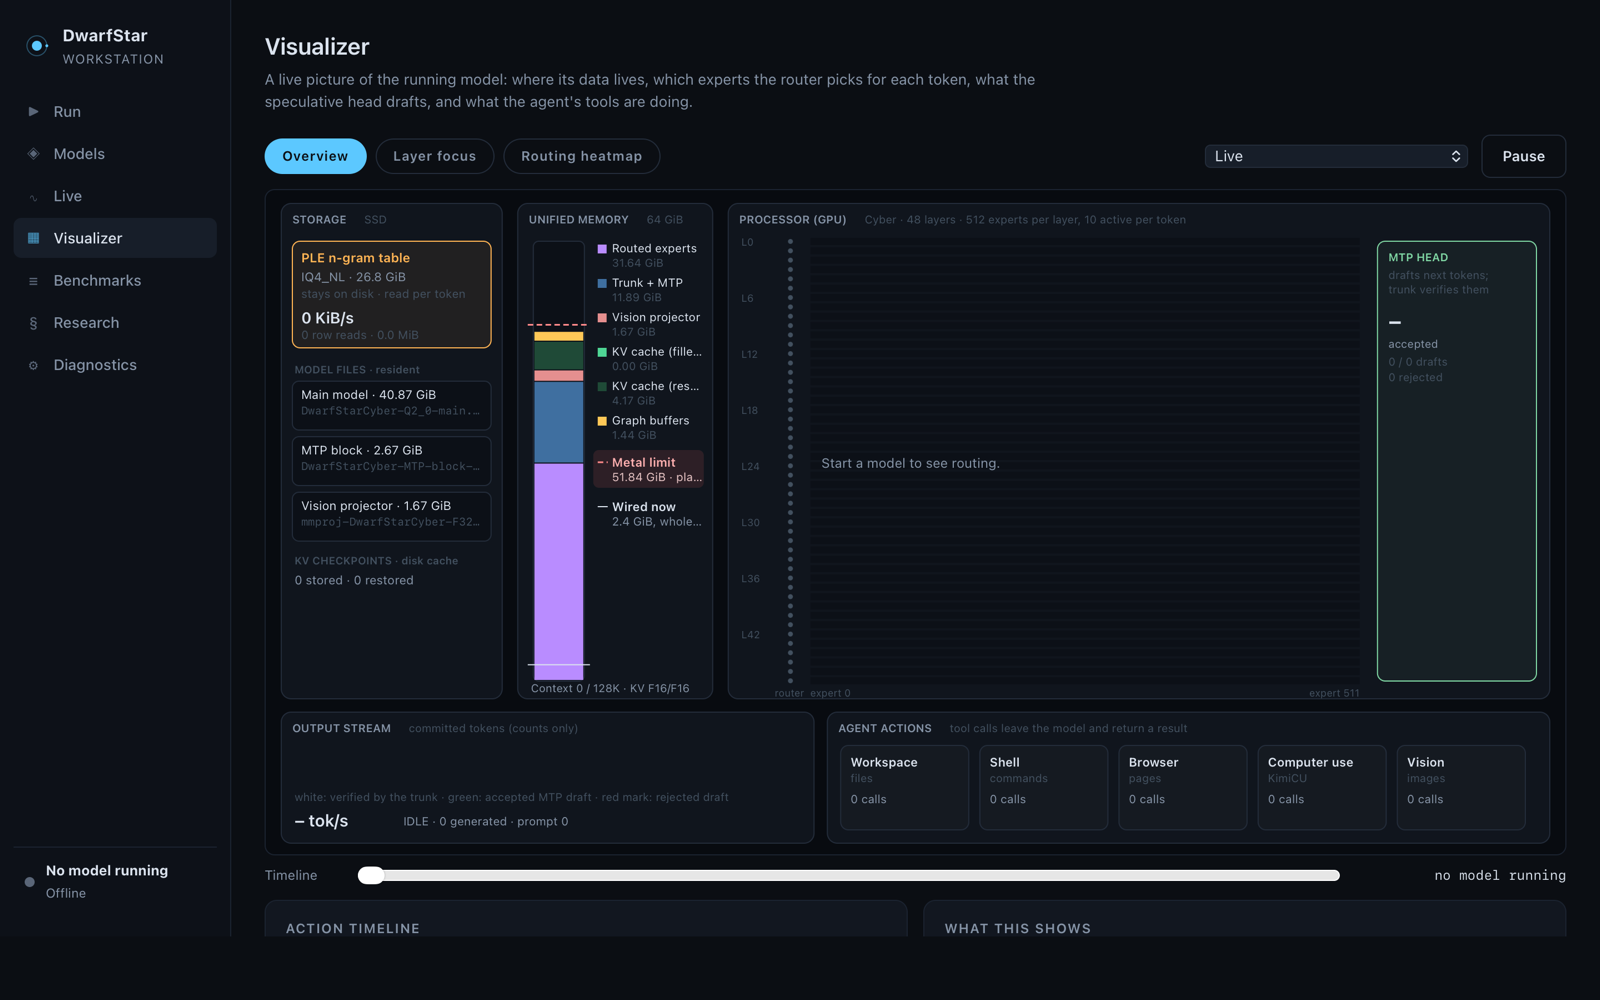
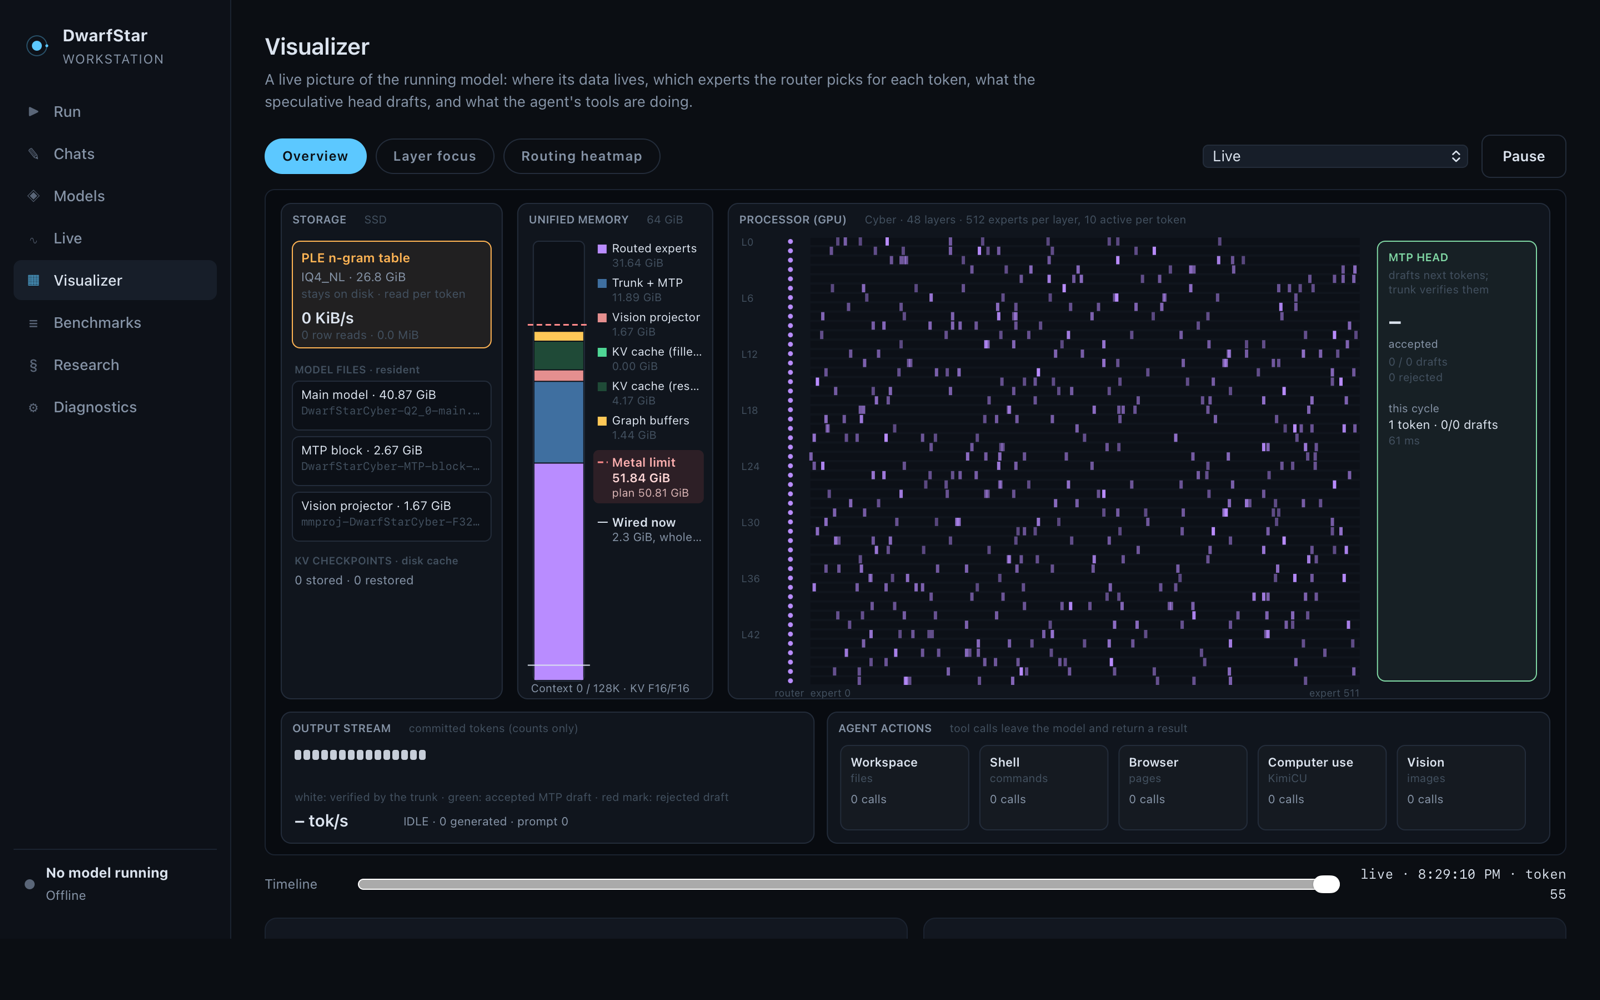
fix(visualizer): contain runtime labels and output tokens at every window size
The output stream drew a fixed 46 tokens and overflowed narrow panels; it now draws only what fits. The Metal limit legend shows its value on its own line with the plan below it, and the output legend and status lines are fitted to their panel. Canvas fonts fall back to the system face in Chromium instead of serif. Screenshot recaptured.

diff --git a/app/workstation/web/visualizer.js b/app/workstation/web/visualizer.js
@@ -144,9 +144,9 @@
     const g = V.g;
     g.fillStyle = COLORS.panel; g.strokeStyle = stroke || COLORS.line; g.lineWidth = 1;
     g.beginPath(); g.roundRect(x, y, w, h, 9); g.fill(); g.stroke();
-    g.fillStyle = COLORS.muted; g.font = "600 10px -apple-system"; g.textBaseline = "top"; g.textAlign = "left";
+    g.fillStyle = COLORS.muted; g.font = "600 10px -apple-system, BlinkMacSystemFont, \"Helvetica Neue\", sans-serif"; g.textBaseline = "top"; g.textAlign = "left";
     g.fillText(title.toUpperCase(), x + 10, y + 8);
-    if (sub) { const sx = x + 10 + g.measureText(title.toUpperCase()).width + 16; g.fillStyle = COLORS.faint; g.font = "10px -apple-system"; g.fillText(fit(sub, x + w - 10 - sx), sx, y + 8); }
+    if (sub) { const sx = x + 10 + g.measureText(title.toUpperCase()).width + 16; g.fillStyle = COLORS.faint; g.font = "10px -apple-system, BlinkMacSystemFont, \"Helvetica Neue\", sans-serif"; g.fillText(fit(sub, x + w - 10 - sx), sx, y + 8); }
   }
   /* Text never leaves its region: anything wider than maxWidth is shortened with an ellipsis, and the full
    * value stays available as the canvas tooltip for that region (see hint()). */
@@ -158,7 +158,7 @@
     return text.slice(0, lo) + "…";
   }
   function label(text, x, y, color, font, align, maxWidth) {
-    const g = V.g; g.fillStyle = color || COLORS.text; g.font = font || "11px -apple-system"; g.textAlign = align || "left"; g.textBaseline = "top";
+    const g = V.g; g.fillStyle = color || COLORS.text; g.font = font || "11px -apple-system, BlinkMacSystemFont, \"Helvetica Neue\", sans-serif"; g.textAlign = align || "left"; g.textBaseline = "top";
     g.fillText(fit(text, maxWidth), x, y);
   }
   function hint(x, y, w, h, text) { V.hits.push({ x, y, w, h, text }); }
@@ -198,25 +198,25 @@
     g.fillStyle = reading ? "rgba(255,180,84,.16)" : "rgba(255,180,84,.07)"; g.strokeStyle = COLORS.ple; g.lineWidth = reading ? 1.6 : 1;
     g.beginPath(); g.roundRect(x + 10, pleY, w - 20, pleH, 7); g.fill(); g.stroke();
     const inner = w - 36;  // text width inside a card: 18 px inset on both sides
-    label("PLE n-gram table", x + 18, pleY + 8, COLORS.ple, "600 11.5px -apple-system", "left", inner);
+    label("PLE n-gram table", x + 18, pleY + 8, COLORS.ple, "600 11.5px -apple-system, BlinkMacSystemFont, \"Helvetica Neue\", sans-serif", "left", inner);
     label(m.quantization.ple.split(",")[0] + " · " + (assets.ple.bytes / 2 ** 30).toFixed(1) + " GiB", x + 18, pleY + 25, COLORS.muted, undefined, "left", inner);
-    label("stays on disk · read per token", x + 18, pleY + 41, COLORS.faint, "10.5px -apple-system", "left", inner);
+    label("stays on disk · read per token", x + 18, pleY + 41, COLORS.faint, "10.5px -apple-system, BlinkMacSystemFont, \"Helvetica Neue\", sans-serif", "left", inner);
     hint(x + 10, pleY, w - 20, pleH, `PLE n-gram table: ${assets.ple.file} (${(assets.ple.bytes / 2 ** 30).toFixed(2)} GiB, ${m.quantization.ple})`);
     const ple = live.ple || {};
-    label(((ple.bytes_per_s || 0) / 1024).toFixed(0) + " KiB/s", x + 18, pleY + 60, COLORS.text, "600 14px -apple-system", "left", inner);
-    label((ple.reads || 0).toLocaleString() + " row reads · " + ((ple.bytes || 0) / 2 ** 20).toFixed(1) + " MiB", x + 18, pleY + 78, COLORS.faint, "10.5px -apple-system", "left", inner);
+    label(((ple.bytes_per_s || 0) / 1024).toFixed(0) + " KiB/s", x + 18, pleY + 60, COLORS.text, "600 14px -apple-system, BlinkMacSystemFont, \"Helvetica Neue\", sans-serif", "left", inner);
+    label((ple.reads || 0).toLocaleString() + " row reads · " + ((ple.bytes || 0) / 2 ** 20).toFixed(1) + " MiB", x + 18, pleY + 78, COLORS.faint, "10.5px -apple-system, BlinkMacSystemFont, \"Helvetica Neue\", sans-serif", "left", inner);
     let fy = pleY + pleH + 14;
-    label("MODEL FILES · resident", x + 12, fy, COLORS.faint, "600 9.5px -apple-system", "left", w - 24); fy += 16;
+    label("MODEL FILES · resident", x + 12, fy, COLORS.faint, "600 9.5px -apple-system, BlinkMacSystemFont, \"Helvetica Neue\", sans-serif", "left", w - 24); fy += 16;
     [["main", "Main model"], ["mtp", "MTP block"], ["vision", "Vision projector"]].forEach(([k, name]) => {
       if (fy + 44 > y + h - 40) return;  // never draw below the panel
       g.fillStyle = "#0c1017"; g.strokeStyle = COLORS.line; g.lineWidth = 1; g.beginPath(); g.roundRect(x + 10, fy, w - 20, 44, 6); g.fill(); g.stroke();
-      label(name + " · " + (assets[k].bytes / 2 ** 30).toFixed(2) + " GiB", x + 18, fy + 5, COLORS.text, "11px -apple-system", "left", inner);
+      label(name + " · " + (assets[k].bytes / 2 ** 30).toFixed(2) + " GiB", x + 18, fy + 5, COLORS.text, "11px -apple-system, BlinkMacSystemFont, \"Helvetica Neue\", sans-serif", "left", inner);
       label(assets[k].file, x + 18, fy + 20, COLORS.faint, "10px ui-monospace, Menlo, monospace", "left", inner);
       hint(x + 10, fy, w - 20, 44, `${name}: ${assets[k].file} · ${(assets[k].bytes / 2 ** 30).toFixed(2)} GiB · SHA-256 ${assets[k].sha256}`);
       fy += 50;
     });
     const kv = live.kv || {};
-    label("KV CHECKPOINTS · disk cache", x + 12, fy + 6, COLORS.faint, "600 9.5px -apple-system", "left", w - 24);
+    label("KV CHECKPOINTS · disk cache", x + 12, fy + 6, COLORS.faint, "600 9.5px -apple-system, BlinkMacSystemFont, \"Helvetica Neue\", sans-serif", "left", w - 24);
     label((kv.stores || 0) + " stored · " + (kv.hits || 0) + " restored", x + 12, fy + 22, COLORS.muted, undefined, "left", w - 24);
   }
   function drawMemory(x, y, w, h, m, live) {
@@ -233,8 +233,8 @@
       g.fillStyle = color; g.fillRect(bx + 1, cy, bw - 2, Math.max(0, ph - 1));
       g.fillStyle = color; g.fillRect(bx + bw + 12, ly + 3, 8, 8);
       const legendW = x + w - (bx + bw + 25) - 8;
-      label(name, bx + bw + 25, ly, COLORS.text, "10.5px -apple-system", "left", legendW);
-      label(gibs.toFixed(2) + " GiB", bx + bw + 25, ly + 13, COLORS.faint, "10px -apple-system", "left", legendW);
+      label(name, bx + bw + 25, ly, COLORS.text, "10.5px -apple-system, BlinkMacSystemFont, \"Helvetica Neue\", sans-serif", "left", legendW);
+      label(gibs.toFixed(2) + " GiB", bx + bw + 25, ly + 13, COLORS.faint, "10px -apple-system, BlinkMacSystemFont, \"Helvetica Neue\", sans-serif", "left", legendW);
       ly += 31;
     });
     // Reference lines are keyed in the legend, never labelled on top of it.
@@ -242,21 +242,22 @@
     g.strokeStyle = "#ff8a8a"; g.lineWidth = 1.5; g.setLineDash([5, 3]); g.beginPath(); g.moveTo(bx - 5, limitY); g.lineTo(bx + bw + 5, limitY); g.stroke(); g.setLineDash([]); g.lineWidth = 1;
     const lx = bx + bw + 12, legendW = x + w - lx - 8;
     ly += 6;
-    g.fillStyle = "rgba(255,107,107,.12)"; g.beginPath(); g.roundRect(lx - 4, ly - 4, legendW + 4, 34, 5); g.fill();
+    g.fillStyle = "rgba(255,107,107,.12)"; g.beginPath(); g.roundRect(lx - 4, ly - 4, legendW + 4, 48, 5); g.fill();
     g.strokeStyle = "#ff8a8a"; g.lineWidth = 1.5; g.setLineDash([5, 3]); g.beginPath(); g.moveTo(lx, ly + 7); g.lineTo(lx + 9, ly + 7); g.stroke(); g.setLineDash([]); g.lineWidth = 1;
-    label("Metal limit", lx + 13, ly, "#ffb0b0", "600 11px -apple-system", "left", legendW - 13);
-    label(limit.toFixed(2) + " GiB · plan " + plan.planned_gib.toFixed(2), lx + 13, ly + 14, "#e7c4c4", "10.5px -apple-system", "left", legendW - 13);
-    hint(lx - 4, ly - 4, legendW + 4, 34, `Metal recommended working set ${limit.toFixed(2)} GiB (${plan.metal_working_set_source}); this model plans ${plan.planned_gib.toFixed(2)} GiB, ${plan.metal_headroom_gib.toFixed(2)} GiB headroom`);
+    label("Metal limit", lx + 13, ly, "#ffb0b0", "600 11px -apple-system, BlinkMacSystemFont, \"Helvetica Neue\", sans-serif", "left", legendW - 13);
+    label(limit.toFixed(2) + " GiB", lx + 13, ly + 14, "#ffd6d6", "600 11px -apple-system, BlinkMacSystemFont, \"Helvetica Neue\", sans-serif", "left", legendW - 13);
+    label("plan " + plan.planned_gib.toFixed(2) + " GiB", lx + 13, ly + 28, "#d8b3b3", "10px -apple-system, BlinkMacSystemFont, \"Helvetica Neue\", sans-serif", "left", legendW - 13);
+    hint(lx - 4, ly - 4, legendW + 4, 48, `Metal recommended working set ${limit.toFixed(2)} GiB (${plan.metal_working_set_source}); this model plans ${plan.planned_gib.toFixed(2)} GiB, ${plan.metal_headroom_gib.toFixed(2)} GiB headroom`);
     const wired = S.system && S.system.memory && S.system.memory.wired_bytes;
     if (wired) {
       const wy = by + bh - wired / 2 ** 30 / total * bh;
       g.strokeStyle = COLORS.text; g.beginPath(); g.moveTo(bx - 5, wy); g.lineTo(bx + bw + 5, wy); g.stroke();
-      ly += 40;
+      ly += 54;
       g.strokeStyle = COLORS.text; g.beginPath(); g.moveTo(lx, ly + 7); g.lineTo(lx + 9, ly + 7); g.stroke();
-      label("Wired now", lx + 13, ly, COLORS.text, "600 11px -apple-system", "left", legendW - 13);
-      label((wired / 2 ** 30).toFixed(1) + " GiB, whole machine", lx + 13, ly + 14, COLORS.muted, "10.5px -apple-system", "left", legendW - 13);
+      label("Wired now", lx + 13, ly, COLORS.text, "600 11px -apple-system, BlinkMacSystemFont, \"Helvetica Neue\", sans-serif", "left", legendW - 13);
+      label((wired / 2 ** 30).toFixed(1) + " GiB, whole machine", lx + 13, ly + 14, COLORS.muted, "10.5px -apple-system, BlinkMacSystemFont, \"Helvetica Neue\", sans-serif", "left", legendW - 13);
     }
-    label("Context " + used.toLocaleString() + " / " + m.context_label + " · KV " + m.cache.k_cache_dtype + "/" + m.cache.v_cache_dtype, x + 12, y + h - 16, COLORS.muted, "10px -apple-system", "left", w - 24);
+    label("Context " + used.toLocaleString() + " / " + m.context_label + " · KV " + m.cache.k_cache_dtype + "/" + m.cache.v_cache_dtype, x + 12, y + h - 16, COLORS.muted, "10px -apple-system, BlinkMacSystemFont, \"Helvetica Neue\", sans-serif", "left", w - 24);
   }
   function drawProcessor(x, y, w, h, m, tick, active, now) {
     const g = V.g, layers = 48;
@@ -270,7 +271,7 @@
     const progress = Math.min(1, (now - V.lastTickAt) / 220);
     for (let l = 0; l < layers; l++) {
       const ry = py + l * rowH;
-      if (l % 6 === 0) label("L" + l, px, ry - 1, COLORS.faint, "9px -apple-system");
+      if (l % 6 === 0) label("L" + l, px, ry - 1, COLORS.faint, "9px -apple-system, BlinkMacSystemFont, \"Helvetica Neue\", sans-serif");
       g.fillStyle = "#0c1017"; g.fillRect(stripX, ry + 1, stripW, Math.max(1.5, rowH - 2));
       const lit = !V.paused ? l / layers <= progress : true;
       g.fillStyle = lit && rows ? tone() : COLORS.faint; g.beginPath(); g.arc(px + 44, ry + rowH / 2, 2.2, 0, 6.3); g.fill();
@@ -284,25 +285,25 @@
         g.globalAlpha = 1;
       }
     }
-    label("router", px + 30, py + ph + 1, COLORS.faint, "9px -apple-system");
-    label("expert 0", stripX, py + ph + 1, COLORS.faint, "9px -apple-system");
-    label("expert 511", stripX + stripW, py + ph + 1, COLORS.faint, "9px -apple-system", "right");
-    if (!rows) label(D.runningModel() ? "Waiting for the next token. Router selections appear while the model generates." : "Start a model to see routing.", stripX + 10, py + ph / 2 - 6, COLORS.muted, "12px -apple-system");
+    label("router", px + 30, py + ph + 1, COLORS.faint, "9px -apple-system, BlinkMacSystemFont, \"Helvetica Neue\", sans-serif");
+    label("expert 0", stripX, py + ph + 1, COLORS.faint, "9px -apple-system, BlinkMacSystemFont, \"Helvetica Neue\", sans-serif");
+    label("expert 511", stripX + stripW, py + ph + 1, COLORS.faint, "9px -apple-system, BlinkMacSystemFont, \"Helvetica Neue\", sans-serif", "right");
+    if (!rows) label(D.runningModel() ? "Waiting for the next token. Router selections appear while the model generates." : "Start a model to see routing.", stripX + 10, py + ph / 2 - 6, COLORS.muted, "12px -apple-system, BlinkMacSystemFont, \"Helvetica Neue\", sans-serif");
     // token pill travelling down the stack
     V.pills.forEach((p) => { const t = (now - p.t0) / 260; if (t > 1) return; g.fillStyle = COLORS.text; g.beginPath(); g.roundRect(px + 14, py + t * (ph - 10), 20, 8, 4); g.fill(); });
     // MTP lane
     const mx = px + pw - mtpW, mw = mtpW;
     g.strokeStyle = COLORS.mtp; g.fillStyle = "rgba(127,214,163,.06)"; g.lineWidth = 1; g.beginPath(); g.roundRect(mx, py + 4, mw, ph - 8, 7); g.fill(); g.stroke();
-    label("MTP HEAD", mx + 10, py + 12, COLORS.mtp, "600 10px -apple-system", "left", mw - 20);
-    label("drafts next tokens;", mx + 10, py + 28, COLORS.faint, "10px -apple-system", "left", mw - 20);
-    label("trunk verifies them", mx + 10, py + 41, COLORS.faint, "10px -apple-system", "left", mw - 20);
+    label("MTP HEAD", mx + 10, py + 12, COLORS.mtp, "600 10px -apple-system, BlinkMacSystemFont, \"Helvetica Neue\", sans-serif", "left", mw - 20);
+    label("drafts next tokens;", mx + 10, py + 28, COLORS.faint, "10px -apple-system, BlinkMacSystemFont, \"Helvetica Neue\", sans-serif", "left", mw - 20);
+    label("trunk verifies them", mx + 10, py + 41, COLORS.faint, "10px -apple-system, BlinkMacSystemFont, \"Helvetica Neue\", sans-serif", "left", mw - 20);
     const mtp = (S.live && S.live.mtp) || {};
-    label(mtp.acceptance_pct != null ? mtp.acceptance_pct.toFixed(1) + " %" : "–", mx + 10, py + 64, COLORS.text, "600 20px -apple-system");
-    label("accepted", mx + 10, py + 90, COLORS.muted, "10px -apple-system");
-    label((mtp.accepted || 0) + " / " + (mtp.proposed || 0) + " drafts", mx + 10, py + 106, COLORS.faint, "10px -apple-system");
-    label((mtp.rejected || 0) + " rejected", mx + 10, py + 120, COLORS.faint, "10px -apple-system");
+    label(mtp.acceptance_pct != null ? mtp.acceptance_pct.toFixed(1) + " %" : "–", mx + 10, py + 64, COLORS.text, "600 20px -apple-system, BlinkMacSystemFont, \"Helvetica Neue\", sans-serif");
+    label("accepted", mx + 10, py + 90, COLORS.muted, "10px -apple-system, BlinkMacSystemFont, \"Helvetica Neue\", sans-serif");
+    label((mtp.accepted || 0) + " / " + (mtp.proposed || 0) + " drafts", mx + 10, py + 106, COLORS.faint, "10px -apple-system, BlinkMacSystemFont, \"Helvetica Neue\", sans-serif");
+    label((mtp.rejected || 0) + " rejected", mx + 10, py + 120, COLORS.faint, "10px -apple-system, BlinkMacSystemFont, \"Helvetica Neue\", sans-serif");
     const cardBottom = py + ph - 4, inset = 10, mtw = mw - 2 * inset;
-    if (tick && cardBottom - (py + 177) > 24) { label("this cycle", mx + inset, py + 148, COLORS.muted, "10px -apple-system", "left", mtw); label(tick.n + " token" + (tick.n === 1 ? "" : "s") + " · " + tick.da + "/" + tick.dp + " drafts", mx + inset, py + 162, COLORS.text, "11px -apple-system", "left", mtw); label(tick.ms.toFixed(0) + " ms", mx + inset, py + 177, COLORS.faint, "10px -apple-system", "left", mtw); }
+    if (tick && cardBottom - (py + 177) > 24) { label("this cycle", mx + inset, py + 148, COLORS.muted, "10px -apple-system, BlinkMacSystemFont, \"Helvetica Neue\", sans-serif", "left", mtw); label(tick.n + " token" + (tick.n === 1 ? "" : "s") + " · " + tick.da + "/" + tick.dp + " drafts", mx + inset, py + 162, COLORS.text, "11px -apple-system, BlinkMacSystemFont, \"Helvetica Neue\", sans-serif", "left", mtw); label(tick.ms.toFixed(0) + " ms", mx + inset, py + 177, COLORS.faint, "10px -apple-system, BlinkMacSystemFont, \"Helvetica Neue\", sans-serif", "left", mtw); }
     // Draft pills move only inside the card: every pill keeps an inset from all four edges.
     const pillW = 18, pillH = 7, laneTop = py + 200, laneBottom = cardBottom - inset - pillH;
     if (laneBottom > laneTop) {
@@ -319,7 +320,7 @@
   function drawLayer(x, y, w, h, tick) {
     const g = V.g, row = tick && tick.r && tick.r[V.focusLayer];
     const cell = Math.floor(Math.min((w - 250) / GRID_COLS, (h - 30) / GRID_ROWS)), gx = x + 4, gy = y + 22;
-    label("Layer " + V.focusLayer + " · router output for the current token", x + 4, y, COLORS.muted, "11px -apple-system");
+    label("Layer " + V.focusLayer + " · router output for the current token", x + 4, y, COLORS.muted, "11px -apple-system, BlinkMacSystemFont, \"Helvetica Neue\", sans-serif");
     const chosen = new Map(); if (row) for (let i = 0; i < row.length; i += 2) chosen.set(row[i], row[i + 1] / 255);
     for (let e = 0; e < EXPERTS; e++) {
       const cx = gx + (e % GRID_COLS) * cell, cy = gy + Math.floor(e / GRID_COLS) * cell;
@@ -328,14 +329,14 @@
       if (chosen.has(e)) { g.fillStyle = tone(); g.globalAlpha = 0.45 + 0.55 * Math.min(1, chosen.get(e) * 4); g.fillRect(cx - 1, cy - 1, cell, cell); g.globalAlpha = 1; g.strokeStyle = "#fff"; g.lineWidth = 1; g.strokeRect(cx - 0.5, cy - 0.5, cell - 1, cell - 1); }
     }
     const lx = gx + GRID_COLS * cell + 18; let ly = gy;
-    label("SELECTED EXPERTS", lx, ly, COLORS.muted, "600 10px -apple-system"); ly += 18;
-    if (row) for (let i = 0; i < row.length; i += 2) { const weight = row[i + 1] / 255; label("#" + row[i], lx, ly, COLORS.text, "11px ui-monospace, Menlo"); g.fillStyle = tone(); g.fillRect(lx + 44, ly + 3, weight * 150, 7); label((weight * 100).toFixed(0) + " %", lx + 44 + weight * 150 + 6, ly, COLORS.muted, "10px -apple-system"); ly += 17; }
+    label("SELECTED EXPERTS", lx, ly, COLORS.muted, "600 10px -apple-system, BlinkMacSystemFont, \"Helvetica Neue\", sans-serif"); ly += 18;
+    if (row) for (let i = 0; i < row.length; i += 2) { const weight = row[i + 1] / 255; label("#" + row[i], lx, ly, COLORS.text, "11px ui-monospace, Menlo"); g.fillStyle = tone(); g.fillRect(lx + 44, ly + 3, weight * 150, 7); label((weight * 100).toFixed(0) + " %", lx + 44 + weight * 150 + 6, ly, COLORS.muted, "10px -apple-system, BlinkMacSystemFont, \"Helvetica Neue\", sans-serif"); ly += 17; }
     else label("No routing data yet.", lx, ly, COLORS.faint);
-    label("Background shade: how often each expert was chosen this session.", gx, gy + GRID_ROWS * cell + 8, COLORS.faint, "10px -apple-system");
+    label("Background shade: how often each expert was chosen this session.", gx, gy + GRID_ROWS * cell + 8, COLORS.faint, "10px -apple-system, BlinkMacSystemFont, \"Helvetica Neue\", sans-serif");
   }
   function drawHeat(x, y, w, h) {
     const g = V.g, layers = 48;
-    label("How often each expert was selected this session (rows: layers 0 to 47, columns: experts 0 to 511). Click a row to focus that layer.", x + 4, y, COLORS.muted, "11px -apple-system");
+    label("How often each expert was selected this session (rows: layers 0 to 47, columns: experts 0 to 511). Click a row to focus that layer.", x + 4, y, COLORS.muted, "11px -apple-system, BlinkMacSystemFont, \"Helvetica Neue\", sans-serif");
     const hy = y + 22, hh = h - 40, rowH = hh / layers, colW = w / EXPERTS;
     g.fillStyle = "#0c1017"; g.fillRect(x, hy, w, hh);
     if (!V.heat) { label("No routing data yet.", x + 10, hy + 10, COLORS.faint); return; }
@@ -358,14 +359,14 @@
   function drawBottom(x, y, w, h, m, live, tick, now) {
     const g = V.g, outW = w * 0.42;
     box(x, y, outW, h, "Output stream", "committed tokens (counts only)");
-    const end = V.paused && V.playhead >= 0 ? V.playhead + 1 : V.ticks.length, recent = V.ticks.slice(Math.max(0, end - 46), end);
+    const end = V.paused && V.playhead >= 0 ? V.playhead + 1 : V.ticks.length, fits = Math.max(1, Math.floor((outW - 24) / 8)), recent = V.ticks.slice(Math.max(0, end - fits), end);
     let px = x + 12; const py = y + 34;
     recent.forEach((t) => { for (let i = 0; i < t.n; i++) { g.fillStyle = i === 0 ? COLORS.text : COLORS.mtp; g.globalAlpha = 0.9; g.beginPath(); g.roundRect(px, py + (i ? 12 : 0), 6, 9, 2); g.fill(); } px += 8; if (t.dp > t.da) { g.fillStyle = COLORS.bad; g.fillRect(px - 8, py + 26, 6, 2); } });
     g.globalAlpha = 1;
-    label("white: verified by the trunk · green: accepted MTP draft · red mark: rejected draft", x + 12, y + 70, COLORS.faint, "10px -apple-system");
+    label("white: verified by the trunk · green: accepted MTP draft · red mark: rejected draft", x + 12, y + 70, COLORS.faint, "10px -apple-system, BlinkMacSystemFont, \"Helvetica Neue\", sans-serif", "left", outW - 24);
     const rates = live.rates || {}, request = live.request || {};
-    label((rates.live_tps != null ? rates.live_tps.toFixed(1) : rates.decode_tps != null ? rates.decode_tps.toFixed(1) : "–") + " tok/s", x + 12, y + 88, COLORS.text, "600 15px -apple-system");
-    label((request.phase || "IDLE").replace("_", " ") + " · " + (request.generated || 0) + " generated · prompt " + (request.prompt_tokens || 0).toLocaleString(), x + 110, y + 92, COLORS.muted, "10.5px -apple-system");
+    label((rates.live_tps != null ? rates.live_tps.toFixed(1) : rates.decode_tps != null ? rates.decode_tps.toFixed(1) : "–") + " tok/s", x + 12, y + 88, COLORS.text, "600 15px -apple-system, BlinkMacSystemFont, \"Helvetica Neue\", sans-serif");
+    label((request.phase || "IDLE").replace("_", " ") + " · " + (request.generated || 0) + " generated · prompt " + (request.prompt_tokens || 0).toLocaleString(), x + 110, y + 92, COLORS.muted, "10.5px -apple-system, BlinkMacSystemFont, \"Helvetica Neue\", sans-serif", "left", outW - 122);
     const tx = x + outW + 12, tw = w - outW - 12;
     box(tx, y, tw, h, "Agent actions", "tool calls leave the model and return a result");
     const nodeW = (tw - 24) / TOOL_NODES.length;
@@ -375,12 +376,12 @@
       const color = { workspace: "#5cc8ff", shell: "#4fd695", browser: "#ffb454", gui: "#b98cff", vision: "#ff6b6b" }[key];
       g.fillStyle = "rgba(255,255,255," + (0.02 + 0.1 * pulse) + ")"; g.strokeStyle = running || pulse > 0 ? color : COLORS.line; g.lineWidth = running ? 2 : 1;
       g.beginPath(); g.roundRect(nx, y + 30, nodeW - 10, h - 42, 7); g.fill(); g.stroke();
-      label(name, nx + 9, y + 38, running || pulse > 0 ? color : COLORS.text, "600 11px -apple-system");
-      label(sub, nx + 9, y + 53, COLORS.faint, "10px -apple-system");
+      label(name, nx + 9, y + 38, running || pulse > 0 ? color : COLORS.text, "600 11px -apple-system, BlinkMacSystemFont, \"Helvetica Neue\", sans-serif");
+      label(sub, nx + 9, y + 53, COLORS.faint, "10px -apple-system, BlinkMacSystemFont, \"Helvetica Neue\", sans-serif");
       const done = V.tools.filter((t) => t.category === key), last = done[done.length - 1];
-      label(done.length + " call" + (done.length === 1 ? "" : "s"), nx + 9, y + 72, COLORS.muted, "10.5px -apple-system");
-      if (running) label("running…", nx + 9, y + 88, color, "10.5px -apple-system");
-      else if (last) label((last.ok === false ? "✗ " : "✓ ") + (last.ms != null ? last.ms + " ms" : ""), nx + 9, y + 88, last.ok === false ? COLORS.bad : COLORS.good, "10.5px -apple-system");
+      label(done.length + " call" + (done.length === 1 ? "" : "s"), nx + 9, y + 72, COLORS.muted, "10.5px -apple-system, BlinkMacSystemFont, \"Helvetica Neue\", sans-serif");
+      if (running) label("running…", nx + 9, y + 88, color, "10.5px -apple-system, BlinkMacSystemFont, \"Helvetica Neue\", sans-serif");
+      else if (last) label((last.ok === false ? "✗ " : "✓ ") + (last.ms != null ? last.ms + " ms" : ""), nx + 9, y + 88, last.ok === false ? COLORS.bad : COLORS.good, "10.5px -apple-system, BlinkMacSystemFont, \"Helvetica Neue\", sans-serif");
     });
   }
   function renderActions() {
